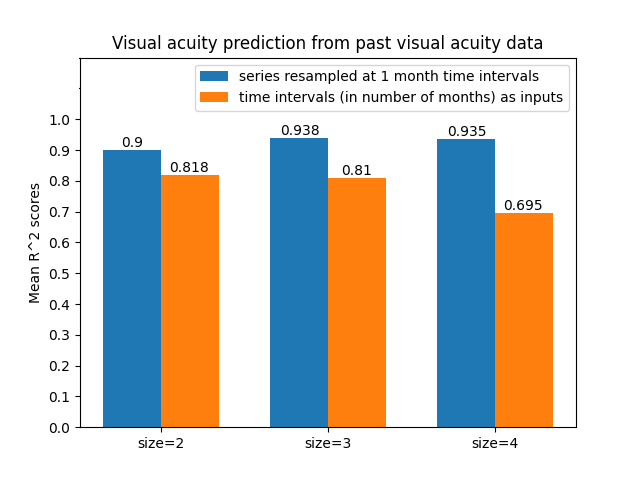
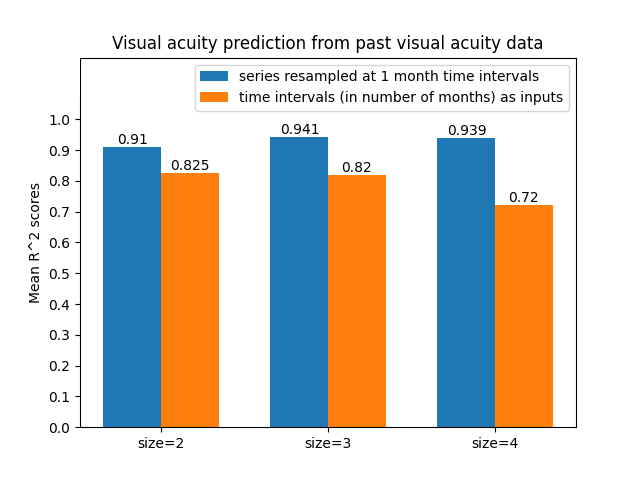
shap explainer integrated

diff --git a/regression.py b/regression.py
@@ -1,6 +1,6 @@
 import numpy as np
 import pandas as pd
-#import shap
+import shap
 from sklearn import linear_model
 from sklearn.ensemble import GradientBoostingRegressor, VotingRegressor, AdaBoostRegressor, ExtraTreesRegressor, RandomForestRegressor
 from sklearn.model_selection import KFold, cross_val_score
@@ -21,7 +21,7 @@ from neural_networks.rnn import Rnn
 pd.set_option('display.max_rows', None)
 pd.set_option('display.max_columns', None)
 pd.options.display.float_format = '{:,.2f}'.format
-
+tf.compat.v1.disable_v2_behavior()
 
 class TimeSeriesRegressor:
 
@@ -125,7 +125,14 @@ class TimeSeriesRegressor:
 
     def lasso_regression(self, include_timestamp=False, previous_visits=1, features='exclude VA'):
         X, Y = self.gen.generate_timeseries(include_timestamp, previous_visits, features)
-        clf = linear_model.Lasso(alpha=0.1)
+        clf = linear_model.Lasso(alpha=0.0001)
+        cv = KFold(n_splits=10)
+        n_scores = cross_val_score(clf, X, Y, cv=cv, n_jobs=-1)
+        print('Accuracy: ' + str(np.mean(n_scores)))
+
+    def linear_regression(self, include_timestamp=False, previous_visits=1, features='exclude VA'):
+        X, Y = self.gen.generate_timeseries(include_timestamp, previous_visits, features)
+        clf = linear_model.LinearRegression()
         cv = KFold(n_splits=10)
         n_scores = cross_val_score(clf, X, Y, cv=cv, n_jobs=-1)
         print('Accuracy: ' + str(np.mean(n_scores)))
@@ -171,14 +178,14 @@ class TimeSeriesRegressor:
 
         rnn.evaluate_model()
 
-    # explainer = shap.DeepExplainer(lstm.model, trainX)
-    # shap_values = explainer.shap_values(testX)
-    #
-    # shap.initjs()
-    #
-    # # plot the explanation of the first prediction
-    # # Note the model is "multi-output" because it is rank-2 but only has one column
-    # shap.force_plot(explainer.expected_value[0], shap_values[0][0])
+        explainer = shap.DeepExplainer(rnn.model, rnn.trainX)
+        shap_values = explainer.shap_values(rnn.testX)
+
+        shap.initjs()
+
+        # plot the explanation of the first prediction
+        # the model is "multi-output" because it is rank-2 but only has one column
+        shap.force_plot(explainer.expected_value[0], shap_values[0][0], link='logit', matplotlib=True)
 
 
     def lstm_ensemble_regression(self, include_timestamp=False, previous_visits=1, features='exclude VA'):
@@ -198,6 +205,25 @@ class TimeSeriesRegressor:
         n_scores = cross_val_score(lstm_ensemble, X, Y, cv=cv, n_jobs=-1)
         print('R^2: ' + str(np.mean(n_scores)))
 
+    def rnn_ensemble_regression(self, include_timestamp=False, previous_visits=1, features='exclude VA'):
+        members = []
+        dependencies = {
+            'root_mean_squared_error': Rnn.root_mean_squared_error
+        }
+        lstm = tf.keras.models.load_model("models/lstm-best-custom.h5", custom_objects=dependencies)
+        X, Y = self.gen.generate_timeseries(include_timestamp, previous_visits, features)
+        trainX, trainY, validX, validY, testX, testY = self.train_test_val_split(X, Y)
+        lstm = Rnn(trainX, trainY, validX, validY, testX, testY, model=lstm)
+        lstm.evaluate_model()
+        # update all layers in all models to not be trainable
+        # for i in range(len(members)):
+        #     model = members[i]
+        #     for layer in model.layers:
+        #         # make not trainable
+        #         layer.trainable = False
+        #         # rename to avoid 'unique layer name' issue
+        #         layer._name = 'ensemble_' + str(i + 1) + '_' + layer.name
+
 
 if __name__ == '__main__':
     #DatasetBuilder.write_all_data_to_csv("idk.csv", datatype='numerical', include_timestamps=True)
@@ -209,17 +235,18 @@ if __name__ == '__main__':
 
     reg = TimeSeriesRegressor(data)
 
-    #feature_selector = FeatureSelector(data, reg.gen)
+    feature_selector = FeatureSelector(data, reg.gen)
     #feature_vector = feature_selector.lasso_feature_selector(include_timestamps)
     #feature_vector = feature_selector.rfe(datatype, include_timestamps)
-    #feature_vector = [1, 2, 10, 14, 15, 16, 18, 20, 22, 23, 24, 43, 47, 57, 99, 101, 123, 149, 172, 174, 177, 199, 227, 234, 244, 257, 275, 279]
+    #feature_vector = [0, 1, 2, 10, 14, 15, 16, 18, 20, 22, 23, 24, 43, 47, 57, 99, 101, 123, 149, 172, 174, 177, 199, 227, 234, 244, 257, 275, 279]
     #feature_vector = [11, 12, 14, 18, 20, 22, 23]
     # for numerical 2 previous 57.64
     #simple GRU 75.38; rmspe: 1.47
     #my lstm 73.7
     # gru resampled 73.94
-    #to try: predict also the future timestamp!
     #reg.rnn_regression(include_timestamps, 2, [0, 1], 'lstm', custom=True)
-    for i in range(1, 4):
-        #reg.gradient_boosted_regression(include_timestamps, i, feature_vector)
-        reg.rnn_regression(include_timestamps, i, 'exclude VA', 'gru', custom=True)
+    #for i in range(1, 4):
+        #reg.gradient_boosted_regression(include_timestamps, i, 'exclude VA')
+    reg.rnn_regression(include_timestamps, previous_visits=2,
+                        features='exclude VA',
+                        nn_type='lstm', custom=True)

diff --git a/neural_networks/rnn.py b/neural_networks/rnn.py
@@ -12,7 +12,7 @@ import matplotlib.pyplot as plt
 class Rnn:
 
     def __init__(self, trainX, trainY, validX, validY, testX, testY, timesteps=1, nb_features=23,
-                 nn_type='lstm', custom=True):
+                 nn_type='lstm', custom=True, model=None):
         self.nb_sequences = 1
         self.timesteps = timesteps
         if trainX is not None and trainY is not None and validX is not None \
@@ -31,7 +31,12 @@ class Rnn:
         else:
             self.nb_features = nb_features
 
-        if custom:
+        if model is not None:
+            self.model = model
+            self.model.compile(loss='mean_squared_error', optimizer='adam', metrics=['mean_absolute_error',
+                                                                                     'mean_squared_error',
+                                                                                     self.root_mean_squared_error])
+        elif custom:
             self.model = self.build_rnn(nn_type)
         else:
             if nn_type == 'lstm':
@@ -44,8 +49,8 @@ class Rnn:
         model = Sequential()
         if nn_type == 'lstm':
             model.add(Bidirectional(LSTM(self.nb_features,
-                                         input_shape=(self.timesteps, self.nb_features))))
-                                         #recurrent_regularizer='l1')))
+                                         input_shape=(self.timesteps, self.nb_features),
+                                         recurrent_regularizer='l1')))
         else:
             if nn_type == 'gru':
                 model.add(Bidirectional(GRU(self.nb_features, input_shape=(self.timesteps, self.nb_features))))

diff --git a/experiments/plotter.py b/experiments/plotter.py
@@ -2,7 +2,7 @@ import numpy as np
 import matplotlib.pyplot as plt
 
 
-def plot_bar_chart(means1, means2):
+def plot_bar_chart(means1, means2, features_str):
     n = np.arange(len(means1))
     width = 0.35
 
@@ -11,7 +11,7 @@ def plot_bar_chart(means1, means2):
             label='time intervals (in number of months) as inputs')
 
     plt.ylabel('Mean R^2 scores')
-    plt.title('Visual acuity prediction from past visual acuity data')
+    plt.title('Visual acuity prediction from ' + features_str)
 
     plt.yticks(np.arange(0, 1.3, 0.1))
     plt.xticks(n + width / 2, ('size=2', 'size=3', 'size=4'))
@@ -28,6 +28,19 @@ def plot_bar_chart(means1, means2):
     plt.show()
 
 
-means1 = [0.9, 0.938, 0.935]
-means2 = [0.818, 0.81, 0.695]
-plot_bar_chart(means1, means2)
+def get_vals(exp):
+    if exp == 1:
+        #experiment 1
+        means1 = [0.91, 0.941, 0.939]
+        means2 = [0.825, 0.82, 0.72]
+        features_str = 'past visual acuity data'
+    elif exp==2:
+        #experiment 2
+        means1 = [0.58, 0.75, 0.65]
+        means2 = [0.50, 0.73, 0.51]
+        features_str = 'all numerical OCT features'
+    return means1, means2, features_str
+
+
+means1, means2, features_str = get_vals(2)
+plot_bar_chart(means1, means2, features_str)
